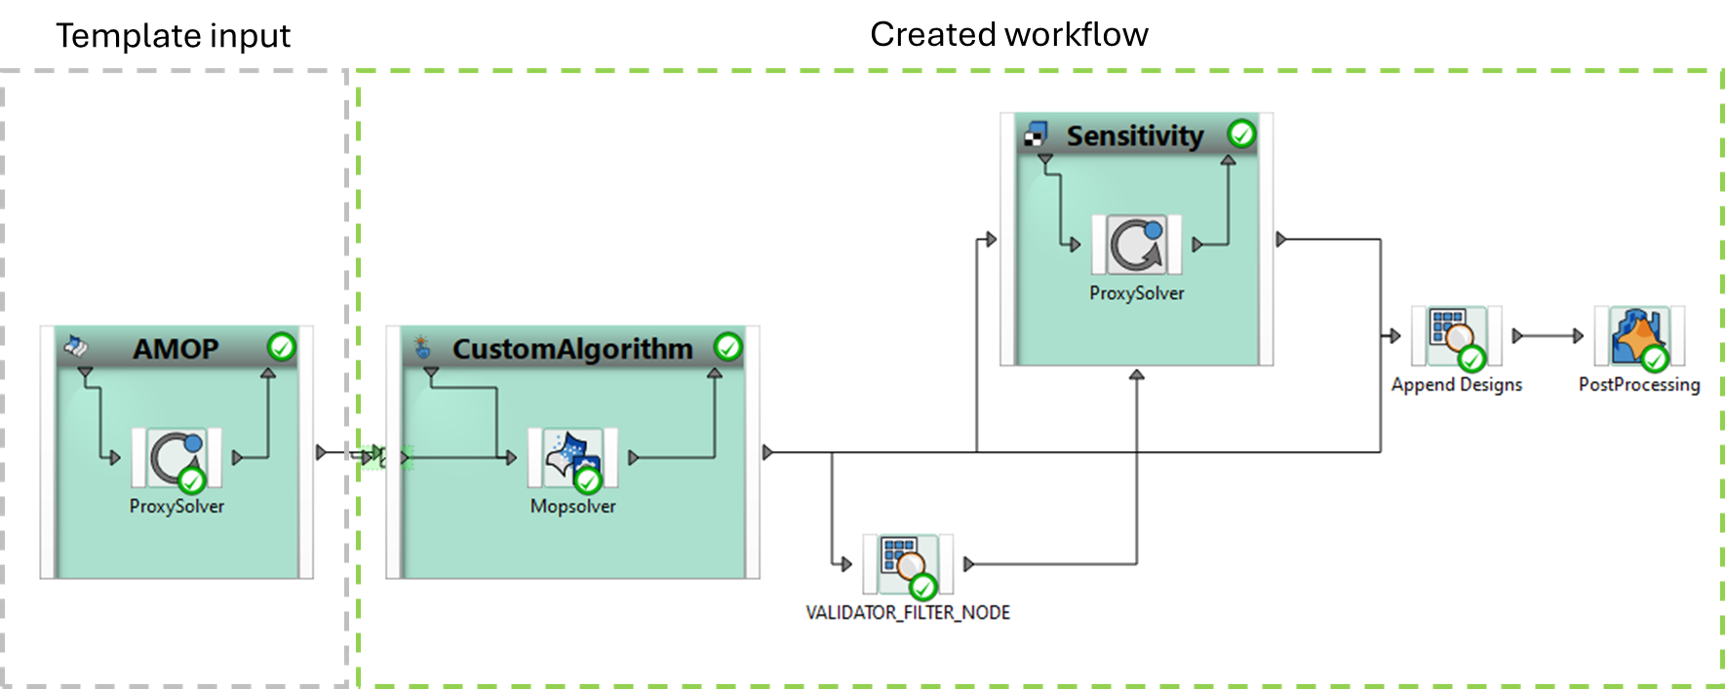
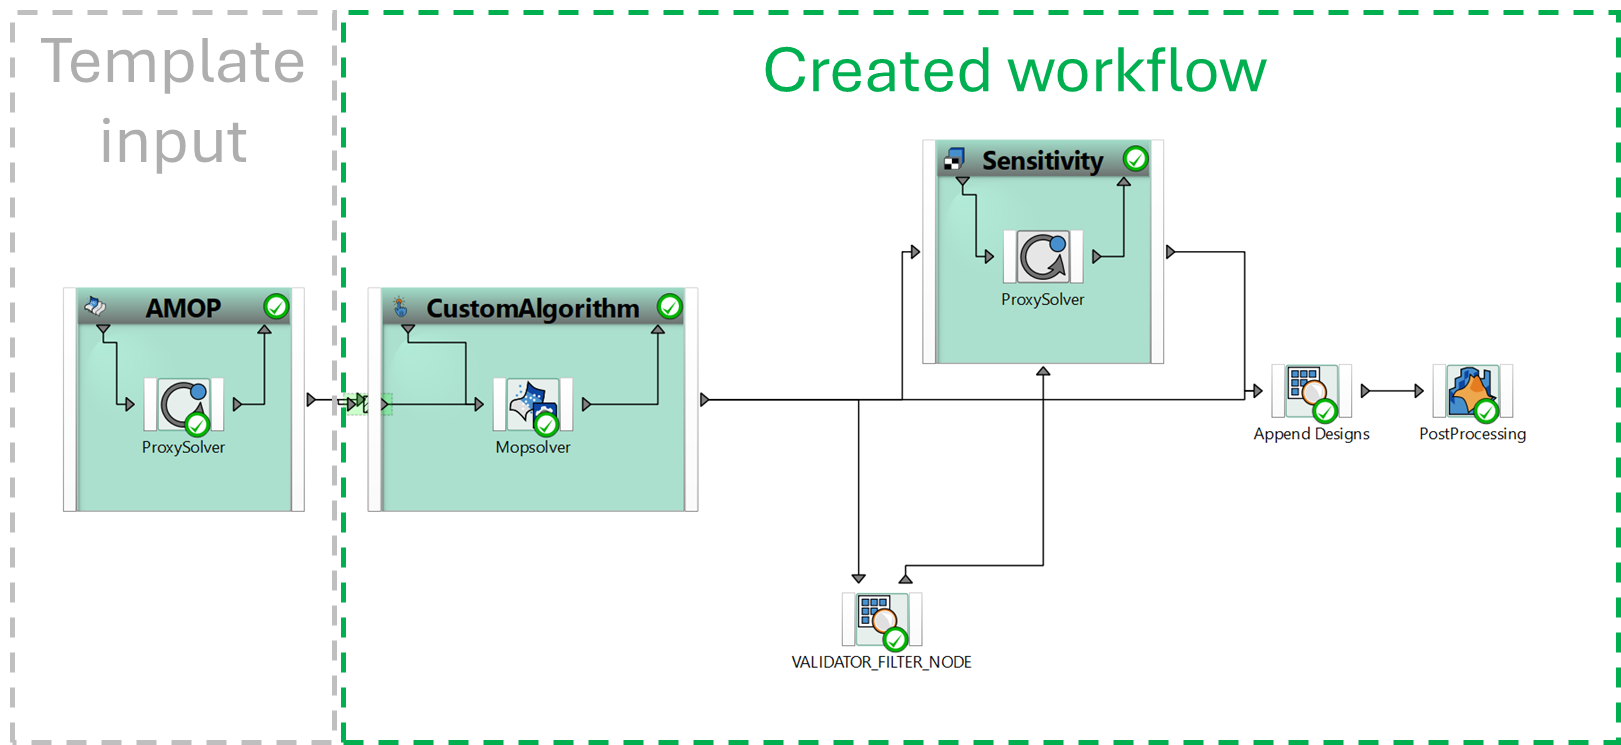
Fix doc header, improve workflow image

diff --git a/doc/source/user_guide/workflow_templates.rst b/doc/source/user_guide/workflow_templates.rst
@@ -19,7 +19,7 @@ Optimization on MOP using a MOP solver to optimize design and ProxySolver for va
 
 Workflow:
   .. image:: ../_static/template_OptimizationOnMOP.png
-     :width: 400
+     :width: 800
      :alt: Result of script.
 
 

diff --git a/doc/source/api/design_study_templates.rst b/doc/source/api/design_study_templates.rst
@@ -1,5 +1,5 @@
-Design study
-============
+Design study templates
+======================
 
 Node settings
 -------------
